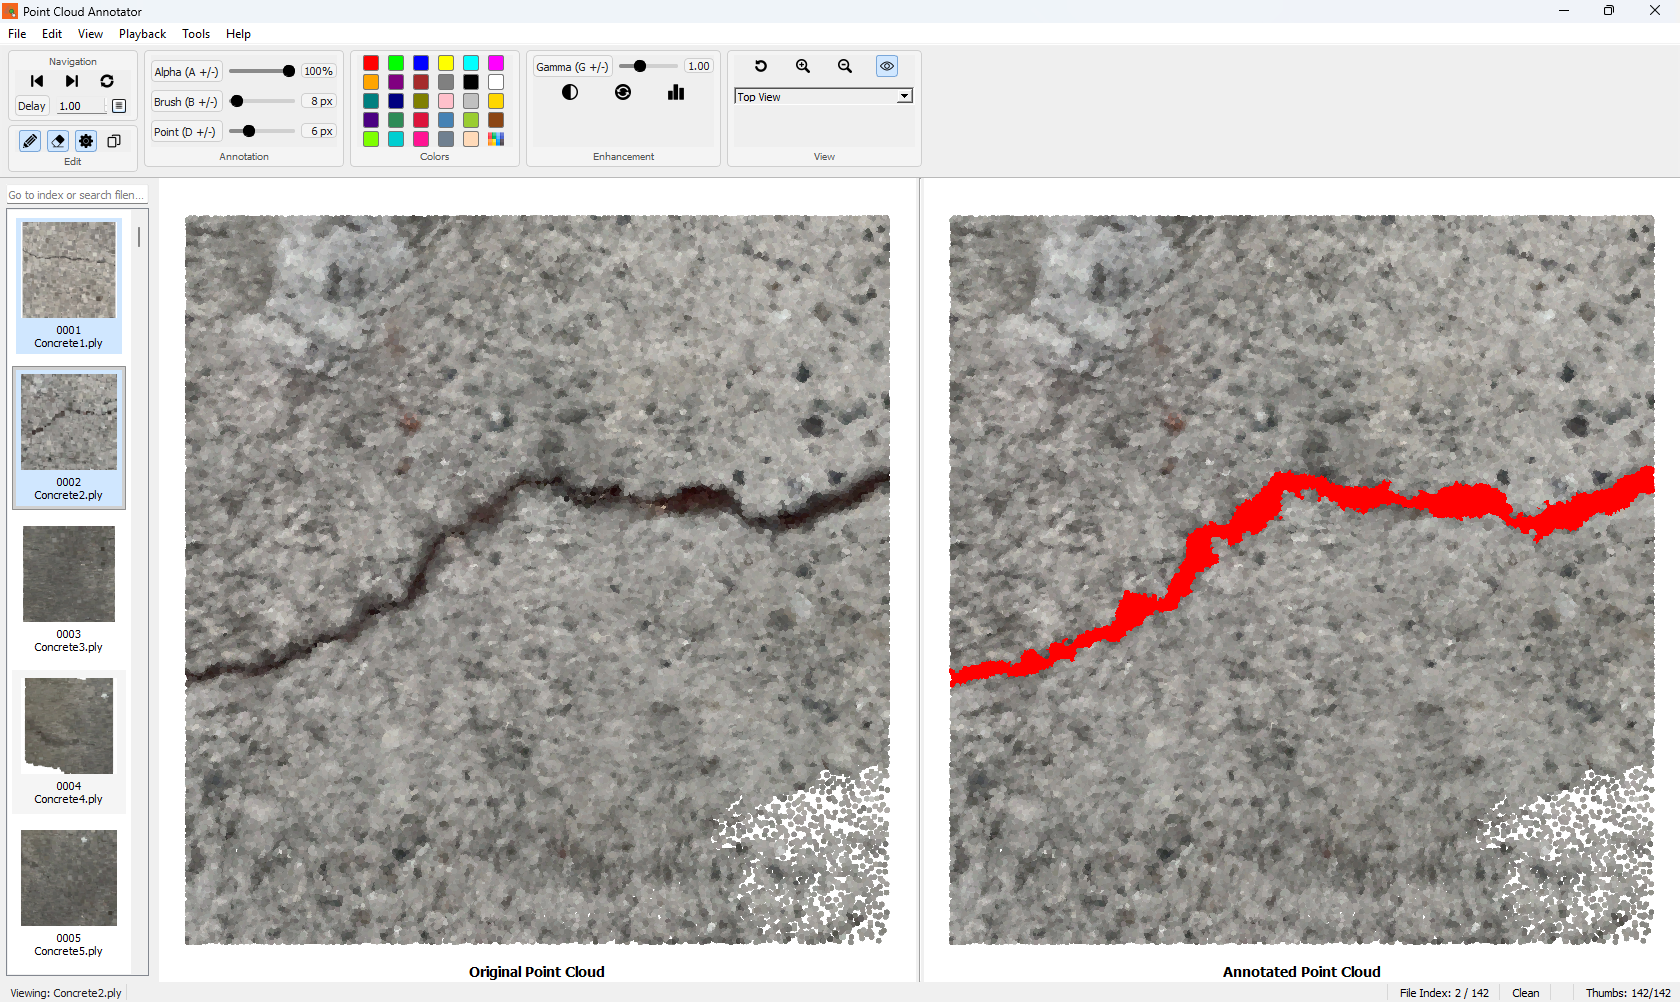
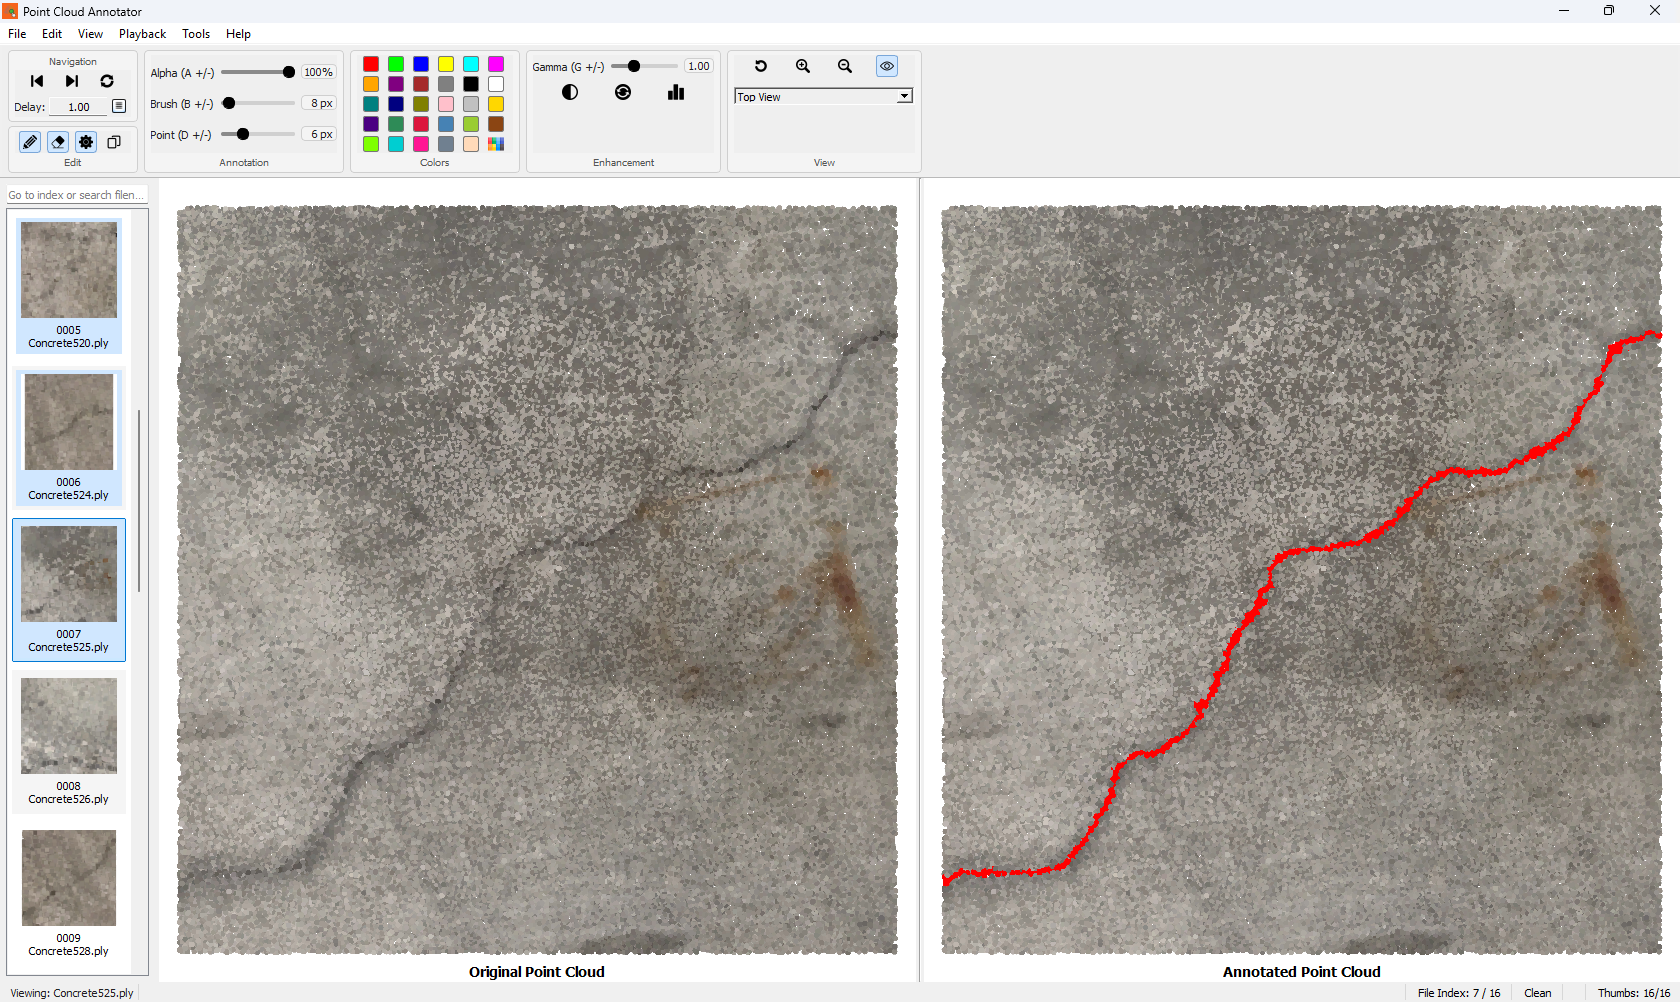
Fixed persistent view button issue, navigation pane disappearing issue when minimized and persistent views while toggling between repair/clone modes. Cosmetic fix for delay panel.

diff --git a/python/controllers/annotation.py b/python/controllers/annotation.py
@@ -446,15 +446,20 @@ def update_annotation_visibility(app) -> None:
 
 
 def toggle_repair_mode(app, on: bool) -> None:
-    if on:
+    was_split = bool(
+        app.repair_mode or app.clone_mode or app.act_repair.isChecked() or app.act_clone.isChecked()
+    )
+    if on and not was_split:
         app._need_split_fit = True
 
     if on and app.clone_mode:
         app.act_clone.setChecked(False)
 
     app.repair_mode = bool(on)
-    app.plotter_ref.setVisible(app.repair_mode)
-    app.vline.setVisible(app.repair_mode)
+    pending_split = bool(app.act_repair.isChecked() or app.act_clone.isChecked())
+    want_split = bool(app.repair_mode or app.clone_mode or pending_split)
+    app.plotter_ref.setVisible(want_split)
+    app.vline.setVisible(want_split)
 
     if app.repair_mode and not app.act_annotation_mode.isChecked():
         app.act_annotation_mode.setChecked(True)
@@ -466,46 +471,50 @@ def toggle_repair_mode(app, on: bool) -> None:
         update_cursor(app)
 
         app.act_eraser.setChecked(True)
-    else:
+    elif not app.clone_mode:
         app.act_eraser.setChecked(False)
 
     if hasattr(app, "left_title"):
-        app.left_title.setVisible(app.repair_mode)
+        app.left_title.setVisible(want_split)
 
     if app.repair_mode and hasattr(app, "cloud_ref"):
         app.cloud_ref["RGB"] = app.original_colors.astype(np.uint8)
 
-    if app.repair_mode:
+    if want_split:
         app._link_cameras()
     else:
         app._unlink_cameras()
 
-    QtCore.QTimer.singleShot(0, app._position_overlays)
-    app._schedule_fit()
+    if was_split != want_split:
+        QtCore.QTimer.singleShot(0, app._finalize_layout)
+    else:
+        QtCore.QTimer.singleShot(0, app._position_overlays)
     update_annotation_visibility(app)
 
 
 def toggle_clone_mode(app, on: bool) -> None:
-    if on:
+    was_split = bool(
+        app.repair_mode or app.clone_mode or app.act_repair.isChecked() or app.act_clone.isChecked()
+    )
+    if on and not was_split:
         app._need_split_fit = True
     app.clone_mode = bool(on)
 
     if on and app.repair_mode:
         app.act_repair.setChecked(False)
 
+    pending_split = bool(app.act_repair.isChecked() or app.act_clone.isChecked())
+    want_split = bool(app.repair_mode or app.clone_mode or pending_split)
+
     if app.clone_mode:
         app.act_annotation_mode.setChecked(True)
         app.act_toggle_annotations.setChecked(True)
 
         app.plotter_ref.setVisible(True)
-        app.vline.setVisible(app.clone_mode)
+        app.vline.setVisible(True)
         if hasattr(app, "left_title"):
             app.left_title.setVisible(True)
-
-        app._link_cameras()
-    else:
-        app._unlink_cameras()
-
+    elif not want_split:
         app.plotter_ref.setVisible(False)
         app.vline.setVisible(False)
         if hasattr(app, "left_title"):
@@ -513,7 +522,15 @@ def toggle_clone_mode(app, on: bool) -> None:
 
         app.current_color = app._last_paint_color.copy()
 
-    QtCore.QTimer.singleShot(0, app._finalize_layout)
+    if want_split:
+        app._link_cameras()
+    else:
+        app._unlink_cameras()
+
+    if was_split != want_split:
+        QtCore.QTimer.singleShot(0, app._finalize_layout)
+    else:
+        QtCore.QTimer.singleShot(0, app._position_overlays)
     update_cursor(app)
 
 

diff --git a/python/ui/ribbon.py b/python/ui/ribbon.py
@@ -2,7 +2,7 @@ from __future__ import annotations
 
 from pathlib import Path
 
-from PyQt5 import QtCore, QtWidgets
+from PyQt5 import QtCore, QtWidgets, QtGui
 from PyQt5.QtGui import QIcon
 from PyQt5.QtWidgets import QToolButton
 
@@ -69,7 +69,9 @@ class RibbonGroup(QtWidgets.QFrame):
     def add_row(self, label: str, w, trailing=None):
         """Label on left, control on right, optional trailing widget."""
         lbl = QtWidgets.QLabel(label)
-        lbl.setStyleSheet("font-size: 11px; color: #222;")
+        lbl.setStyleSheet(
+            "font-size: 11px; color: #222; background: transparent; border: none; padding: 0px;"
+        )
         lbl.setAlignment(QtCore.Qt.AlignVCenter | QtCore.Qt.AlignLeft)
 
         self.grid.addWidget(lbl, self._row, 0)
@@ -136,13 +138,28 @@ def build_ribbon(app) -> QtWidgets.QWidget:
     chk_loop.toggled.connect(app.act_loop.setChecked)
     app.act_loop.toggled.connect(chk_loop.setChecked)
 
-    delay = QtWidgets.QDoubleSpinBox()
-    delay.setRange(0.1, 60.0)
-    delay.setSingleStep(0.1)
-    delay.setValue(app.loop_delay_sec)
-    delay.setDecimals(2)
+    delay = QtWidgets.QLineEdit()
+    delay.setText(f"{app.loop_delay_sec:.2f}")
     delay.setFixedWidth(64)
-    delay.valueChanged.connect(app._set_loop_delay)
+    delay.setAlignment(QtCore.Qt.AlignHCenter | QtCore.Qt.AlignVCenter)
+    delay_validator = QtGui.QDoubleValidator(0.1, 60.0, 2, delay)
+    delay_validator.setNotation(QtGui.QDoubleValidator.StandardNotation)
+    delay.setValidator(delay_validator)
+
+    def _commit_delay():
+        text = delay.text().strip()
+        try:
+            val = float(text)
+        except ValueError:
+            delay.setText(f"{app.loop_delay_sec:.2f}")
+            delay.clearFocus()
+            return
+        val = max(0.1, min(60.0, val))
+        app._set_loop_delay(val)
+        delay.setText(f"{val:.2f}")
+        delay.clearFocus()
+
+    delay.editingFinished.connect(_commit_delay)
 
     btn_delay_menu = _ribbon_button(
         app.style().standardIcon(QtWidgets.QStyle.SP_FileDialogDetailedView),
@@ -169,7 +186,10 @@ def build_ribbon(app) -> QtWidgets.QWidget:
         """)
 
     def _set_delay(val):
-        delay.setValue(float(val))
+        val = float(val)
+        app._set_loop_delay(val)
+        delay.setText(f"{val:.2f}")
+        delay.clearFocus()
 
     for v in (0.1, 0.5, 1.0, 2.0, 5.0, 10.0):
         act = QtWidgets.QAction(f"{v:.1f} s", app)
@@ -213,7 +233,21 @@ def build_ribbon(app) -> QtWidgets.QWidget:
     nav_row_layout.addWidget(chk_loop)
 
     nav.add(nav_row)
-    nav.add_row("Delay", delay_row)
+    delay_container = QtWidgets.QWidget()
+    delay_layout = QtWidgets.QHBoxLayout(delay_container)
+    delay_layout.setContentsMargins(0, 0, 0, 0)
+    delay_layout.setSpacing(2)
+
+    delay_lbl = QtWidgets.QLabel("Delay:")
+    delay_lbl.setStyleSheet(
+        "font-size: 11px; color: #222; background: transparent; border: none; padding: 0px;"
+    )
+    delay_lbl.setAlignment(QtCore.Qt.AlignVCenter | QtCore.Qt.AlignLeft)
+
+    delay_layout.addWidget(delay_lbl)
+    delay_layout.addWidget(delay_row)
+
+    nav.add(delay_container)
 
     ann = RibbonGroup("Annotation", 200)
 

diff --git a/python/controllers/app_helpers.py b/python/controllers/app_helpers.py
@@ -18,6 +18,37 @@ def release_view_combo_focus(app) -> None:
     QtCore.QTimer.singleShot(0, _focus)
 
 
+def on_nav_visibility_changed(app, visible: bool) -> None:
+    if app.isMinimized():
+        return
+    if hasattr(app, "act_toggle_nav"):
+        app.act_toggle_nav.setChecked(bool(visible))
+    app._schedule_fit()
+
+
+def on_change_event(app, event) -> None:
+    if event.type() != QtCore.QEvent.WindowStateChange:
+        return
+
+    if app.isMinimized():
+        if hasattr(app, "nav_dock"):
+            app._nav_was_visible = app.nav_dock.isVisible()
+        return
+
+    want_visible = bool(getattr(app, "_nav_was_visible", True))
+    if not hasattr(app, "nav_dock"):
+        return
+
+    if want_visible:
+        app.nav_dock.setVisible(True)
+        if hasattr(app, "act_toggle_nav"):
+            app.act_toggle_nav.setChecked(True)
+        target = int(getattr(app, "_nav_last_width", app.nav_dock.minimumWidth()))
+        app.resizeDocks([app.nav_dock], [target], QtCore.Qt.Horizontal)
+    else:
+        if hasattr(app, "act_toggle_nav"):
+            app.act_toggle_nav.setChecked(False)
+
 def clone_source(app):
     """Color source for Clone mode."""
     return app.original_colors

diff --git a/python/controllers/interaction.py b/python/controllers/interaction.py
@@ -178,7 +178,7 @@ def event_filter(app, obj, event):
                     app._session_edited[idxs] = True
                     app._mark_dirty_once()
                     if hasattr(app, "toggle_ann_chk"):
-                        app.toggle_ann_chk.setEnabled(bool(np.any(app._session_edited)))
+                        app.toggle_ann_chk.setEnabled(True)
                     app._blend_into_mesh_subset(idxs)
 
                 app._line_len_px = t1 * dist
@@ -216,7 +216,7 @@ def event_filter(app, obj, event):
                     app._session_edited[idxs] = True
                     app._mark_dirty_once()
                     if hasattr(app, "toggle_ann_chk"):
-                        app.toggle_ann_chk.setEnabled(bool(np.any(app._session_edited)))
+                        app.toggle_ann_chk.setEnabled(True)
                     app._blend_into_mesh_subset(idxs)
 
             app._last_paint_xy = (x, y)

diff --git a/python/app.py b/python/app.py
@@ -28,7 +28,7 @@ Usage:
 import sys
 from pathlib import Path
 
-from PyQt5 import QtWidgets
+from PyQt5 import QtCore, QtWidgets
 from PyQt5.QtGui import QIcon
 
 from configs.constants import (
@@ -146,6 +146,9 @@ class Annotator(QtWidgets.QMainWindow):
 
     def _release_view_combo_focus(self):
         return app_helpers.release_view_combo_focus(self)
+
+    def _on_nav_visibility_changed(self, visible: bool):
+        return app_helpers.on_nav_visibility_changed(self, visible)
 
     def _build_nav_dock(self):
         return build_nav_dock(self)
@@ -305,6 +308,10 @@ class Annotator(QtWidgets.QMainWindow):
 
     def closeEvent(self, e):
         return app_helpers.close_event(self, e)
+
+    def changeEvent(self, event):
+        app_helpers.on_change_event(self, event)
+        return super().changeEvent(event)
 
     def _sync_renders(self):
         return camera.sync_renders(self)

diff --git a/python/controllers/io.py b/python/controllers/io.py
@@ -233,7 +233,7 @@ def load_cloud(app) -> None:
 
     app._session_edited = np.zeros(app.cloud.n_points, dtype=bool)
     has_any_edit_now = np.any(app.colors != app.original_colors)
-    app.act_toggle_annotations.setEnabled(bool(has_any_edit_now))
+    app.act_toggle_annotations.setEnabled(True)
 
     app.annotations_visible = getattr(app, "act_toggle_annotations", None) is None or app.act_toggle_annotations.isChecked()
     app.update_annotation_visibility()
@@ -277,7 +277,7 @@ def on_save(app, _autosave: bool = False) -> None:
     try:
         app._session_edited = np.zeros(app.cloud.n_points, dtype=bool)
         if hasattr(app, "toggle_ann_chk"):
-            app.toggle_ann_chk.setEnabled(bool(np.any(app._session_edited)))
+            app.toggle_ann_chk.setEnabled(True)
     except Exception:
         pass
 

diff --git a/python/rendering/camera.py b/python/rendering/camera.py
@@ -259,6 +259,14 @@ def fit_to_canvas(app):
 
 def resize_event(app, event):
     super(type(app), app).resizeEvent(event)
+    if hasattr(app, "nav_dock") and app.nav_dock.isVisible():
+        if not app.isMinimized() and app.nav_dock.width() < app.nav_dock.minimumWidth():
+            target = int(getattr(app, "_nav_last_width", app.nav_dock.minimumWidth()))
+            app.resizeDocks([app.nav_dock], [target], QtCore.Qt.Horizontal)
+        else:
+            w = app.nav_dock.width()
+            if w >= app.nav_dock.minimumWidth():
+                app._nav_last_width = w
     if hasattr(app, "right_title"):
         app._position_overlays()
     if not getattr(app, "_batch", False):

diff --git a/python/controllers/bootstrap.py b/python/controllers/bootstrap.py
@@ -6,7 +6,7 @@ from PyQt5 import QtCore, QtWidgets
 from PyQt5.QtGui import QKeySequence
 from PyQt5.QtWidgets import QShortcut
 
-from configs.constants import NAV_NAME_MAX, NAV_THUMB_SIZE
+from configs.constants import NAV_DOCK_WIDTH, NAV_NAME_MAX, NAV_THUMB_SIZE
 from services.storage import load_state, log_gui, save_state
 from services.thumbnail import ThumbnailService
 
@@ -94,6 +94,8 @@ def init_state(app) -> None:
     app._colors_before_stroke = None
     app._expecting_ann = False
     app._pending_orig_dir = None
+    app._nav_last_width = NAV_DOCK_WIDTH
+    app._nav_was_visible = True
 
 
 def init_timers(app) -> None:

diff --git a/python/ui/menu.py b/python/ui/menu.py
@@ -155,7 +155,8 @@ def build_menubar(app) -> None:
     act_toggle_nav.setChecked(True)
     act_toggle_nav.setShortcut(QKeySequence("N"))
     act_toggle_nav.toggled.connect(app.nav_dock.setVisible)
-    app.nav_dock.visibilityChanged.connect(act_toggle_nav.setChecked)
+    app.act_toggle_nav = act_toggle_nav
+    app.nav_dock.visibilityChanged.connect(app._on_nav_visibility_changed)
     view_menu.addAction(act_toggle_nav)
 
     playback_menu = menubar.addMenu("&Playback")
